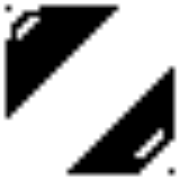
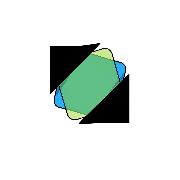
image update, sfx

diff --git a/index.html b/index.html
@@ -92,7 +92,45 @@ body {
 		</style>
 		<link id="-gd-engine-icon" rel="icon" type="image/png" href="index.icon.png" />
 <link rel="apple-touch-icon" href="index.apple-touch-icon.png"/>
+<meta name="description"
+	content="Play a new Shakashaka logic puzzle every day.">
 
+<meta property="og:type"
+	content="website">
+
+<meta property="og:url"
+	content="https://play.shakashaka.site/">
+
+<meta property="og:title"
+	content="Daily Shakashaka">
+
+<meta property="og:description"
+	content="Place triangles, complete rectangles, and solve a new logic puzzle every day.">
+
+<meta property="og:image"
+	content="https://play.shakashaka.site/social-preview.png?v=1">
+
+<meta property="og:image:width"
+	content="1200">
+
+<meta property="og:image:height"
+	content="630">
+
+<meta property="og:image:alt"
+	content="Daily Shakashaka puzzle game">
+
+
+<meta name="twitter:card"
+	content="summary_large_image">
+
+<meta name="twitter:title"
+	content="Daily Shakashaka">
+
+<meta name="twitter:description"
+	content="A new Shakashaka logic puzzle every day.">
+
+<meta name="twitter:image"
+	content="https://play.shakashaka.site/social-preview.png?v=1">
 	</head>
 	<body>
 		<canvas id="canvas">
@@ -111,7 +149,7 @@ body {
 
 		<script src="index.js"></script>
 		<script>
-const GODOT_CONFIG = {"args":[],"canvasResizePolicy":2,"emscriptenPoolSize":8,"ensureCrossOriginIsolationHeaders":true,"executable":"index","experimentalVK":false,"fileSizes":{"index.pck":10650148,"index.wasm":39509339},"focusCanvas":true,"gdextensionLibs":[],"godotPoolSize":4};
+const GODOT_CONFIG = {"args":[],"canvasResizePolicy":2,"emscriptenPoolSize":8,"ensureCrossOriginIsolationHeaders":true,"executable":"index","experimentalVK":false,"fileSizes":{"index.pck":13016868,"index.wasm":39509339},"focusCanvas":true,"gdextensionLibs":[],"godotPoolSize":4};
 const GODOT_THREADS_ENABLED = false;
 const engine = new Engine(GODOT_CONFIG);
 